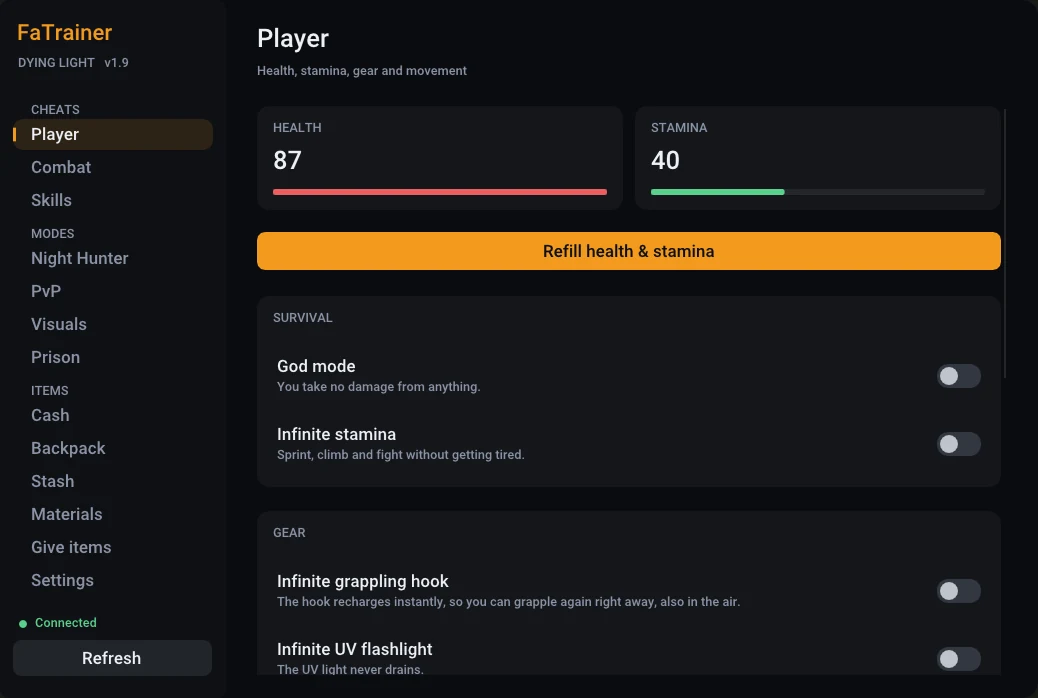
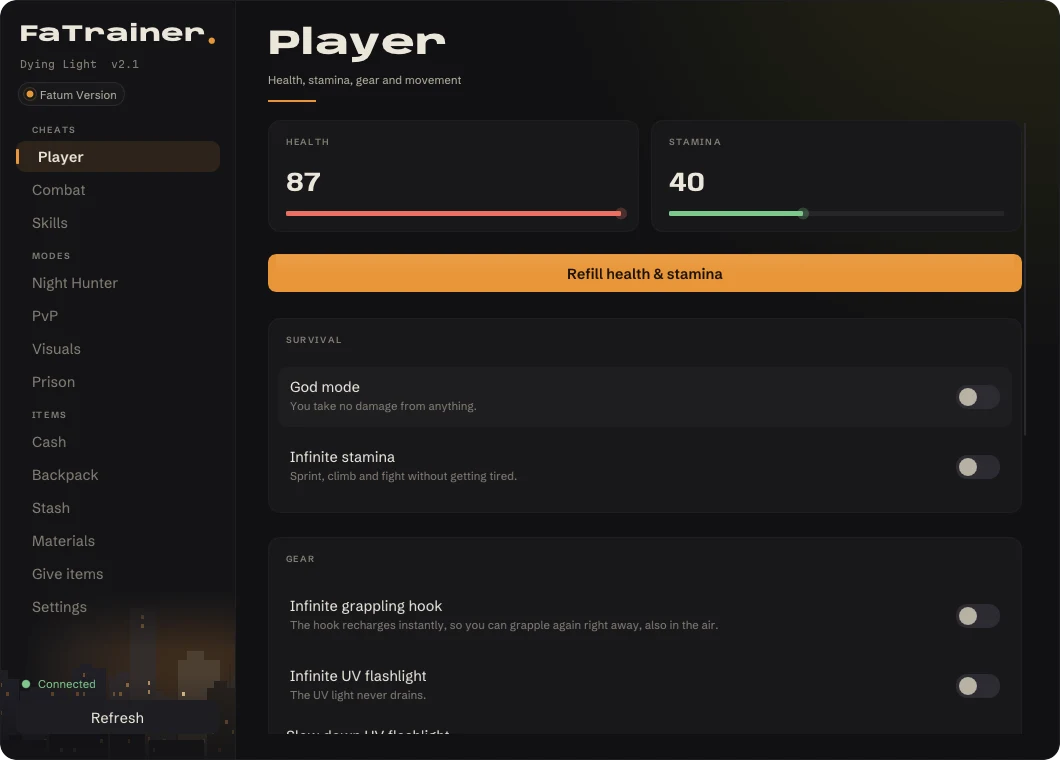
2.1 website: new menu screenshots, presets and appearance options, changes section; taller default menu window so every page fits in the sidebar

diff --git a/site/dying-light/index.html b/site/dying-light/index.html
@@ -9,8 +9,8 @@
 <link rel="icon" href="../assets/icon.svg" type="image/svg+xml">
 <link rel="preload" href="../assets/fonts/anybody-latin-standard-normal.woff2" as="font" type="font/woff2" crossorigin>
 <link rel="preload" href="../assets/fonts/schibsted-grotesk-latin-wght-normal.woff2" as="font" type="font/woff2" crossorigin>
-<link rel="stylesheet" href="../assets/style.css?v=11">
-<script src="../assets/site.js?v=11" defer></script>
+<link rel="stylesheet" href="../assets/style.css?v=12">
+<script src="../assets/site.js?v=12" defer></script>
 </head>
 <body>
 <a class="skip" href="#main">Skip to content</a>
@@ -36,7 +36,7 @@
     </div>
     <div class="wrap">
       <ul class="kicker">
-        <li>Version 2.0</li>
+        <li>Version 2.1</li>
         <li>Dying Light 1</li>
         <li>Windows and Linux</li>
       </ul>
@@ -45,7 +45,7 @@
         <div>
           <p class="lead">Run the installer, start the game and press <kbd>Insert</kbd>. God mode, items, a weapon editor, skill levels, Harran Prison timers and the reach of every Night Hunter attack, all in a menu over the game.</p>
           <div class="actions">
-            <a class="button" href="https://github.com/ifatum/DyingLightFaTrainer/releases/latest/download/FaTrainer-Fatum-Version-Installer.exe">Download for Windows <span>2.0</span></a>
+            <a class="button" href="https://github.com/ifatum/DyingLightFaTrainer/releases/latest/download/FaTrainer-Fatum-Version-Installer.exe">Download for Windows <span>2.1</span></a>
             <a class="link-arrow" href="https://github.com/ifatum/DyingLightFaTrainer/releases/latest/download/FaTrainer-Fatum-Version-Installer-Linux.tar.gz">Linux</a>
             <a class="link-arrow" href="https://github.com/ifatum/DyingLightFaTrainer">Source code</a>
           </div>
@@ -71,7 +71,7 @@
       </div>
       <div class="press-visual">
         <div class="keycap" aria-hidden="true">Insert</div>
-        <figure class="press-shot"><img src="img/pvp.webp" width="1038" height="698" alt="The FaTrainer menu on its PvP page: a sidebar of pages and sliders for Pounce, Ground pound, Tackle and Claws, each set to Normal."></figure>
+        <figure class="press-shot"><img src="img/pvp.webp" width="1060" height="760" alt="The FaTrainer menu on its PvP page: four preset cards, Survivor Legit, Survivor Rage, Night Hunter Legit and Night Hunter Rage, each with a Load preset button."></figure>
       </div>
     </div>
   </section>
@@ -93,7 +93,7 @@
             <li><span>No fall damage, speed and jump height<small>Plus a button that refills health and stamina.</small></span><i class="switch" aria-hidden="true"></i></li>
           </ul>
           <figure class="shot" data-wipe>
-            <div class="frame"><img src="img/player.webp" width="1038" height="698" loading="lazy" alt="The Player page: health and stamina readouts, a Refill button, and switches for God mode, Infinite stamina, Infinite grappling hook and Infinite UV flashlight."></div>
+            <div class="frame"><img src="img/player.webp" width="1060" height="760" loading="lazy" alt="The Player page: health and stamina readouts, a Refill button, and switches for God mode, Infinite stamina, Infinite grappling hook and Infinite UV flashlight."></div>
           </figure>
         </article>
 
@@ -116,7 +116,7 @@
             <li><span>Long camouflage<small>Ten minutes, and you can run and attack while hidden.</small></span><i class="switch" aria-hidden="true"></i></li>
           </ul>
           <figure class="shot" data-wipe>
-            <div class="frame"><img src="img/zombie.webp" width="1038" height="698" loading="lazy" alt="The Night Hunter page with switches for Hunter god mode, Infinite hunter energy, No ability cooldowns, Infinite spits and Long camouflage."></div>
+            <div class="frame"><img src="img/zombie.webp" width="1060" height="760" loading="lazy" alt="The Night Hunter page with switches for Hunter god mode, Infinite hunter energy, No ability cooldowns, Infinite spits and Long camouflage."></div>
           </figure>
         </article>
       </div>
@@ -132,7 +132,7 @@
     <div class="reach-stage wrap">
       <div class="reach-copy">
         <h2 id="reach-title">Drag the pounce from Normal to Max</h2>
-        <p>Every Night Hunter attack has a slider like this one: pounce, ground pound, tackle, claws, death from above, dropkick, kicks and spit radius. Each player's game decides its own attacks, so some sliders only change what happens on your side.</p>
+        <p>Every Night Hunter attack has a slider like this one: pounce, ground pound, tackle, claws, death from above, dropkick, kicks and spit radius. Each player's game decides its own attacks, so some sliders only change what happens on your side. Or load one of four presets: Survivor or Night Hunter, Legit or Rage.</p>
       </div>
       <div class="meter">
         <div class="meter-top">
@@ -163,7 +163,7 @@
             <li><span>UV light color and glow</span><i class="switch" aria-hidden="true"></i></li>
           </ul>
           <figure class="shot" data-wipe>
-            <div class="frame"><img src="img/visuals.webp" width="1038" height="698" loading="lazy" alt="The Visuals page: Show players with a range of up to 300 m, checkboxes for Box, Role, Health bar, Distance and Show allies, and colors for the Night Hunter and survivors."></div>
+            <div class="frame"><img src="img/visuals.webp" width="1060" height="760" loading="lazy" alt="The Visuals page: Show players with a range of up to 300 m, checkboxes for Box, Role, Health bar, Distance and Show allies, and colors for the Night Hunter and survivors."></div>
           </figure>
         </article>
         <article class="page">
@@ -181,6 +181,7 @@
             <li><span>Give any weapon, upgrade, consumable or blueprint<small>Each goes into the inventory the game accepts it in.</small></span><i class="switch" aria-hidden="true"></i></li>
             <li><span>Weapon editor<small>Damage, durability, crits, reach, magazine, reload, upgrades and rarity.</small></span><i class="switch" aria-hidden="true"></i></li>
             <li><span>Named configs, menu key, size and sidebar order</span><i class="switch" aria-hidden="true"></i></li>
+            <li><span>Your look<small>Accent color, opacity, corner roundness, animations, the Harran skyline and glow.</small></span><i class="switch" aria-hidden="true"></i></li>
           </ul>
         </article>
       </div>
@@ -241,12 +242,14 @@
         <p class="fade">The full history is in <a href="https://github.com/ifatum/DyingLightFaTrainer/blob/main/CHANGELOG.md">the changelog</a>.</p>
       </div>
       <div class="release">
-        <div class="number stretch" data-p aria-label="Version 2.0">2.0</div>
+        <div class="number stretch" data-p aria-label="Version 2.1">2.1</div>
         <ul data-stagger>
-          <li class="fade"><b>New</b><span>FaTrainer Installer for Windows and Linux: finds the game, installs, updates and removes the trainer, with the changelog built in.</span></li>
-          <li class="fade"><b>New</b><span>Update check: when a newer version is out, the trainer asks you to update and stays off until you do.</span></li>
-          <li class="fade"><b>New</b><span>The trainer file shows its version in its Windows file properties.</span></li>
-          <li class="fade"><b>1.9</b><span>Player ESP, UV light color, spit hit radius and spit keys, named configs, and fixes for crashes with the ESP or one hit kill.</span></li>
+          <li class="fade"><b>New</b><span>A redesigned menu that matches the installer, with smooth animations and the Harran skyline in the sidebar.</span></li>
+          <li class="fade"><b>New</b><span>Appearance settings: accent color, opacity, corner roundness, background dim, animations Full, Subtle or Off.</span></li>
+          <li class="fade"><b>New</b><span>Four Be The Zombie presets on the PvP page: Survivor and Night Hunter, Legit and Rage.</span></li>
+          <li class="fade"><b>New</b><span>The menu shows whether you have the Fatum Version or the Nexus Version.</span></li>
+          <li class="fade"><b>Fixed</b><span>Cheats could stop working for the rest of the session after a loading screen.</span></li>
+          <li class="fade"><b>2.0</b><span>The FaTrainer Installer for Windows and Linux, the update check, and the version in the trainer's file properties.</span></li>
         </ul>
       </div>
     </div>

diff --git a/site/index.html b/site/index.html
@@ -8,8 +8,8 @@
 <meta name="theme-color" content="#121110">
 <link rel="icon" href="assets/icon.svg" type="image/svg+xml">
 <link rel="preload" href="assets/fonts/anybody-latin-standard-normal.woff2" as="font" type="font/woff2" crossorigin>
-<link rel="stylesheet" href="assets/style.css?v=11">
-<script src="assets/site.js?v=11" defer></script>
+<link rel="stylesheet" href="assets/style.css?v=12">
+<script src="assets/site.js?v=12" defer></script>
 </head>
 <body>
 <a class="skip" href="#main">Skip to content</a>
@@ -32,13 +32,13 @@
       <div class="hero-grid">
         <div>
           <p class="lead">Trainers that open as a menu inside the game. An installer that finds the game and keeps the trainer up to date, and a key to open it in game. Free and open source.</p>
-          <p class="actions"><a class="button" href="dying-light/">Dying Light <span>2.0</span></a><a class="link-arrow" href="#how">How it works</a></p>
+          <p class="actions"><a class="button" href="dying-light/">Dying Light <span>2.1</span></a><a class="link-arrow" href="#how">How it works</a></p>
         </div>
         <div class="deck" data-p="top" aria-hidden="true">
-          <img style="--k: -1.5; --a: 1.5" src="dying-light/img/visuals.webp" width="1038" height="698" alt="">
-          <img style="--k: -0.5; --a: 0.5" src="dying-light/img/zombie.webp" width="1038" height="698" alt="">
-          <img style="--k: 0.5; --a: 0.5" src="dying-light/img/pvp.webp" width="1038" height="698" alt="">
-          <img style="--k: 1.5; --a: 1.5" src="dying-light/img/player.webp" width="1038" height="698" alt="">
+          <img style="--k: -1.5; --a: 1.5" src="dying-light/img/visuals.webp" width="1060" height="760" alt="">
+          <img style="--k: -0.5; --a: 0.5" src="dying-light/img/zombie.webp" width="1060" height="760" alt="">
+          <img style="--k: 0.5; --a: 0.5" src="dying-light/img/pvp.webp" width="1060" height="760" alt="">
+          <img style="--k: 1.5; --a: 1.5" src="dying-light/img/player.webp" width="1060" height="760" alt="">
         </div>
       </div>
     </div>
@@ -54,8 +54,8 @@
         <li class="game fade" style="--game-accent: #e8973a; --skyline: url(/dying-light/img/harran-front-lit.svg)">
           <a href="dying-light/">
             <h2>Dying Light</h2>
-            <span class="meta"><b>Version 2.0</b><span>Windows and Linux</span></span>
-            <p>God mode, items and a weapon editor, skill levels, Harran Prison timers, and Be The Zombie reach sliders with a player ESP.</p>
+            <span class="meta"><b>Version 2.1</b><span>Windows and Linux</span></span>
+            <p>God mode, items and a weapon editor, skill levels, Harran Prison timers, and Be The Zombie presets and reach sliders with a player ESP.</p>
           </a>
         </li>
       </ul>
@@ -77,7 +77,7 @@
       </div>
       <div class="press-visual">
         <div class="keycap" aria-hidden="true">Insert</div>
-        <figure class="press-shot"><img src="dying-light/img/player.webp" width="1038" height="698" loading="lazy" alt="The FaTrainer menu for Dying Light on its Player page, with health and stamina readouts and switches for god mode and infinite stamina."></figure>
+        <figure class="press-shot"><img src="dying-light/img/player.webp" width="1060" height="760" loading="lazy" alt="The FaTrainer menu for Dying Light on its Player page, with health and stamina readouts and switches for god mode and infinite stamina."></figure>
       </div>
     </div>
   </section>

diff --git a/site/assets/style.css b/site/assets/style.css
@@ -272,7 +272,7 @@ html.js .fade.in { opacity: 1; transform: none; }
 
 .hub-hero { overflow: clip; }
 .hub-hero .hero-grid { align-items: center; }
-.deck { position: relative; aspect-ratio: 1038 / 698; perspective: 1400px; --tx: 0; --ty: 0; }
+.deck { position: relative; aspect-ratio: 1060 / 760; perspective: 1400px; --tx: 0; --ty: 0; }
 .deck img { position: absolute; inset: 0; width: 100%; height: auto; border-radius: 8px; border: 1px solid var(--line); box-shadow: 0 30px 60px -30px rgba(0, 0, 0, 0.8); transform-origin: 50% 120%;
   transform: rotateY(calc(var(--tx) * 10deg)) rotateX(calc(var(--ty) * -8deg)) translateX(calc(var(--k) * (14px + var(--p, 0) * 70px))) translateY(calc(var(--a) * var(--p, 0) * 30px)) rotate(calc(var(--k) * (3deg + var(--p, 0) * 7deg)));
   filter: brightness(calc(0.55 + (var(--k) + 1.5) * 0.15)); transition: filter 400ms var(--out), translate 500ms var(--out), transform 600ms var(--out); }

diff --git a/site/prawne.html b/site/prawne.html
@@ -8,7 +8,7 @@
 <meta name="theme-color" content="#121110">
 <link rel="alternate" hreflang="en" href="legal.html">
 <link rel="icon" href="assets/icon.svg" type="image/svg+xml">
-<link rel="stylesheet" href="assets/style.css?v=11">
+<link rel="stylesheet" href="assets/style.css?v=12">
 </head>
 <body>
 <a class="skip" href="#tresc">Przejdź do treści</a>

diff --git a/site/legal.html b/site/legal.html
@@ -8,7 +8,7 @@
 <meta name="theme-color" content="#121110">
 <link rel="alternate" hreflang="pl" href="prawne.html">
 <link rel="icon" href="assets/icon.svg" type="image/svg+xml">
-<link rel="stylesheet" href="assets/style.css?v=11">
+<link rel="stylesheet" href="assets/style.css?v=12">
 </head>
 <body>
 <a class="skip" href="#content">Skip to content</a>

diff --git a/src/menu.h b/src/menu.h
@@ -1520,7 +1520,7 @@ inline void open_page(const char* id) {
 
 inline bool nav_item(const Page& p, bool active, bool marked, float& active_y) {
     ImGui::PushID(p.id);
-    float w = ImGui::GetContentRegionAvail().x, h = S(34);
+    float w = ImGui::GetContentRegionAvail().x, h = S(31);
     ImVec2 at = ImGui::GetCursorScreenPos();
     if (active) active_y = at.y - ImGui::GetWindowPos().y + ImGui::GetScrollY();
     bool clicked = ImGui::InvisibleButton("nav", {w, h});
@@ -1599,7 +1599,7 @@ inline void sidebar() {
         if (pill_y < 0 || motion() == 0) pill_y = target_y;
         brand::follow(pill_y, target_y, 16);
         ImVec2 o = ImGui::GetWindowPos();
-        float y = o.y + pill_y - ImGui::GetScrollY(), w = ImGui::GetContentRegionAvail().x, h = S(34);
+        float y = o.y + pill_y - ImGui::GetScrollY(), w = ImGui::GetContentRegionAvail().x, h = S(31);
         nav->AddRectFilled({o.x, y}, {o.x + w, y + h}, C(T.accent, 0.12f), R(9));
         nav->AddRectFilled({o.x, y + h * 0.26f}, {o.x + S(3), y + h * 0.74f}, C(T.accent), S(2));
     }
@@ -1719,7 +1719,7 @@ inline void draw(float shown_raw, bool open) {
     static ImVec2 rest{-1, -1};
     if (rest.x < 0) ImGui::SetNextWindowPos({io.DisplaySize.x * 0.5f, io.DisplaySize.y * 0.5f}, ImGuiCond_FirstUseEver, {0.5f, 0.5f});
     else if (shown < 1) ImGui::SetNextWindowPos({rest.x, rest.y + (1 - shown) * S(22) * motion()});
-    ImGui::SetNextWindowSize({S(1060), S(720)}, ImGuiCond_FirstUseEver);
+    ImGui::SetNextWindowSize({S(1060), S(760)}, ImGuiCond_FirstUseEver);
     ImGui::SetNextWindowSizeConstraints({S(780), S(500)}, {FLT_MAX, FLT_MAX});
     ImGui::PushStyleVar(ImGuiStyleVar_Alpha, shown);
     ImGuiWindowFlags flags = ImGuiWindowFlags_NoTitleBar | ImGuiWindowFlags_NoCollapse | ImGuiWindowFlags_NoScrollbar | ImGuiWindowFlags_NoScrollWithMouse;
@@ -1764,7 +1764,8 @@ inline void draw(float shown_raw, bool open) {
     ImGui::End();
     ImGui::PopStyleVar();
     draw_toast();
-    if (open) draw_cursor();
+    static const bool cursor = getenv("DLT_NO_CURSOR") == nullptr;
+    if (open && cursor) draw_cursor();
 }
 
 inline void draw_update_notice(const std::string& latest, float alpha) {
